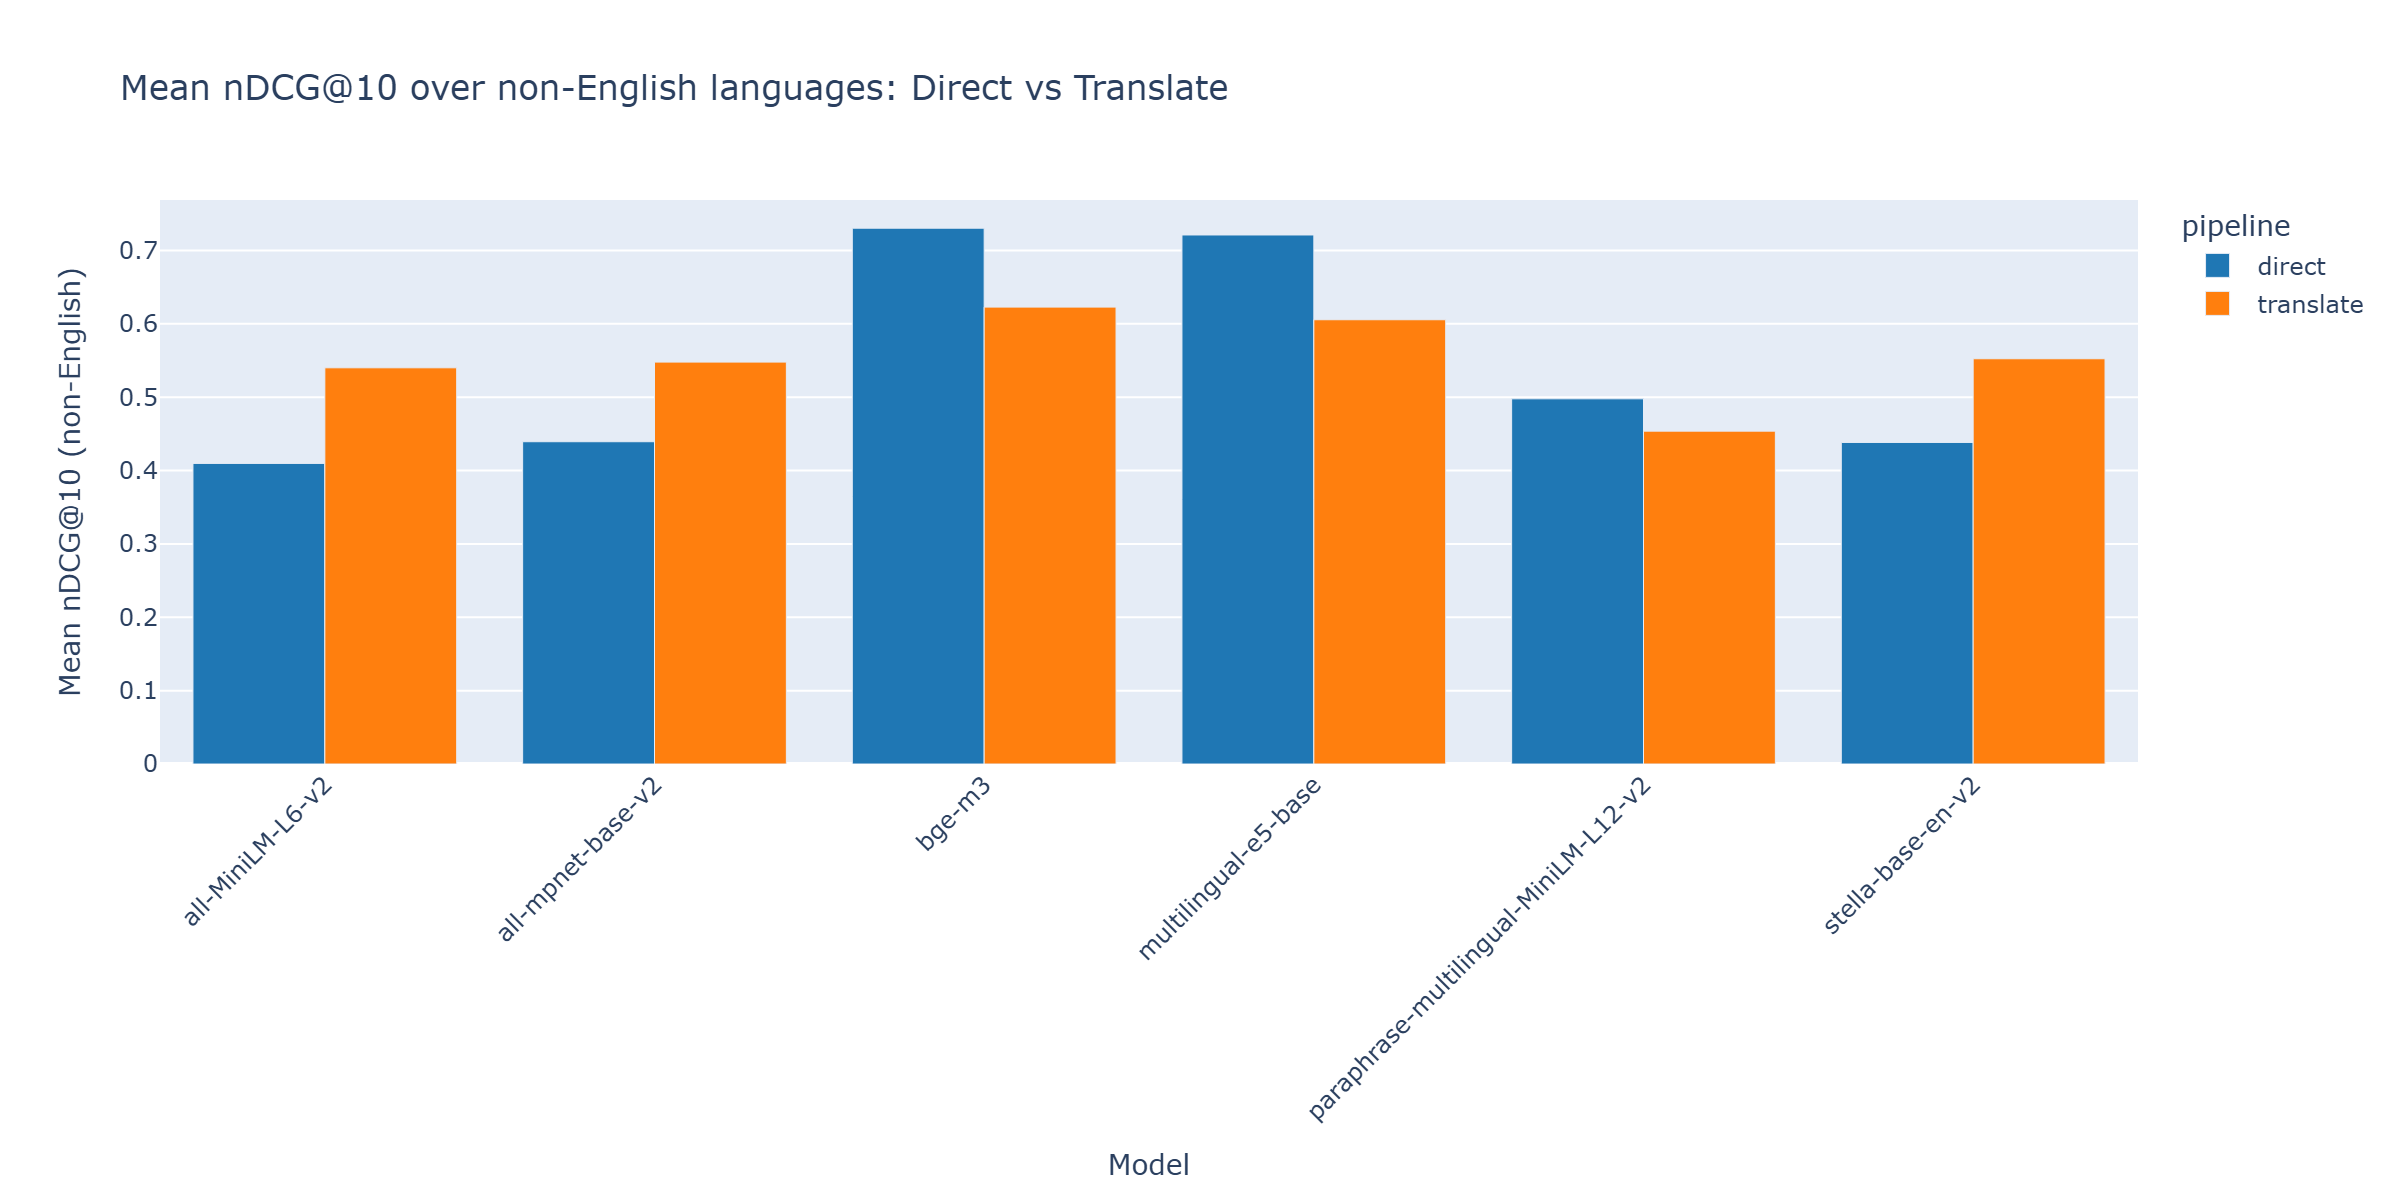
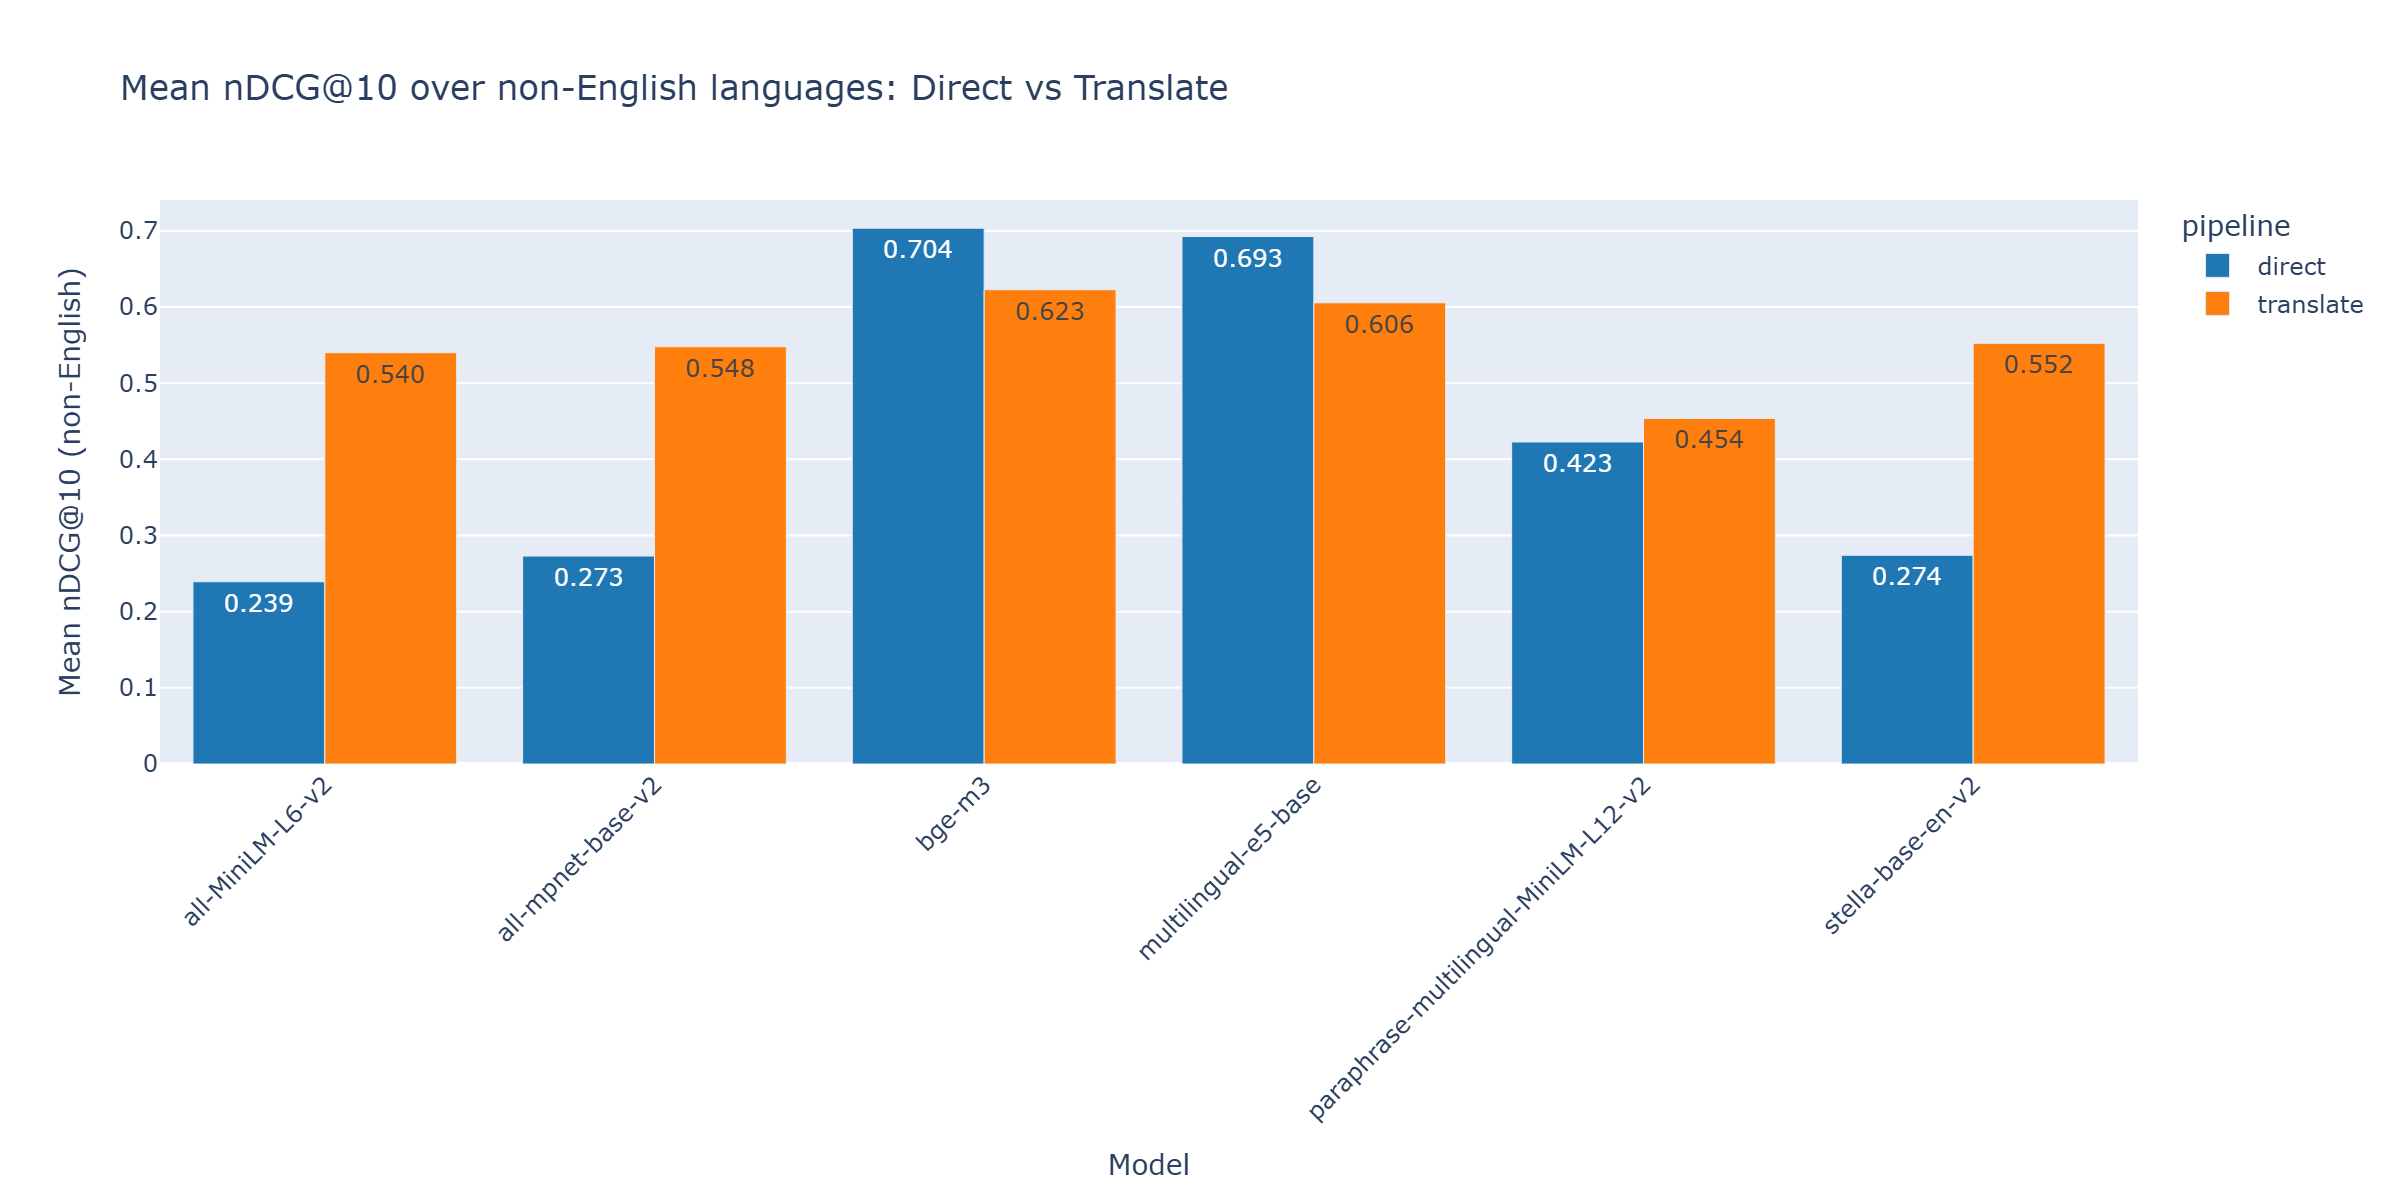
Regenerate charts from corrected summary; add value labels

diff --git a/compare_results.py b/compare_results.py
@@ -31,6 +31,9 @@ def plot_model_comparison(summary_df, show_plot=True):
         print("⚠  nDCG@10 column not found")
         return
     
+    # Print the exact table passed to the plot
+    print(summary_df[['model','pipeline','avg_ndcg@10']].round(4).to_string(index=False))
+    
     fig = px.bar(
         summary_df,
         x='model',
@@ -39,7 +42,8 @@ def plot_model_comparison(summary_df, show_plot=True):
         barmode='group',
         title='Mean nDCG@10 over non-English languages: Direct vs Translate',
         labels={'avg_ndcg@10': 'Mean nDCG@10 (non-English)', 'model': 'Model'},
-        color_discrete_map={'direct': '#1f77b4', 'translate': '#ff7f0e'}
+        color_discrete_map={'direct': '#1f77b4', 'translate': '#ff7f0e'},
+        text_auto='.3f'
     )
     
     fig.update_layout(
@@ -92,7 +96,8 @@ def plot_model_language_winloss(winloss_df, show_plot=True):
         barmode='group',
         title='Direct vs Translate Performance by Model and Language',
         labels={'nDCG@10': 'nDCG@10'},
-        color_discrete_map={'Direct': '#1f77b4', 'Translate': '#ff7f0e'}
+        color_discrete_map={'Direct': '#1f77b4', 'Translate': '#ff7f0e'},
+        text_auto='.2f'
     )
     
     fig.update_xaxes(tickangle=-45)
